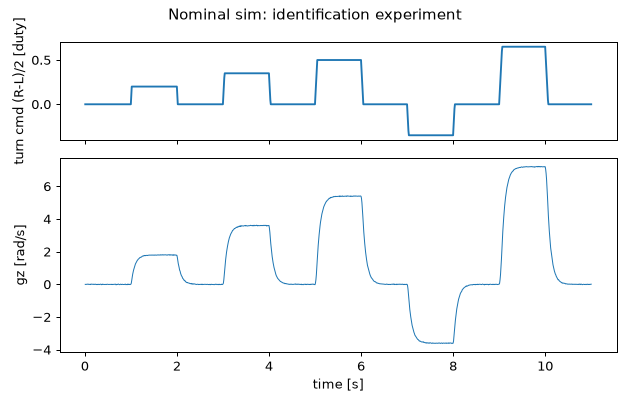
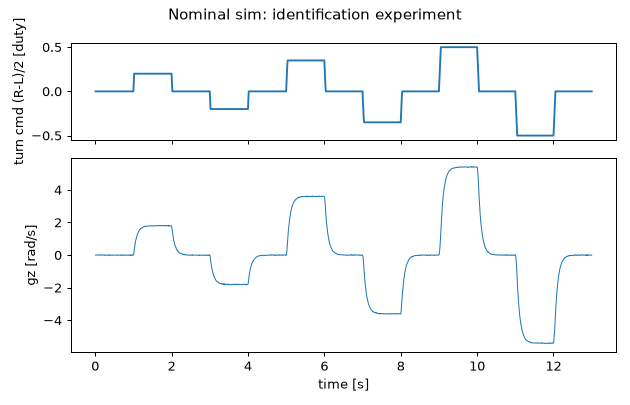
S023: 図を S008 後の main で作り直し（06 は sim-log --plant mujoco の同定の実験）、01・02・04・05・07・08 章に貼った

diff --git a/doc/textbook/fig/README.md b/doc/textbook/fig/README.md
@@ -5,24 +5,24 @@
 
 | 図 | 何が見えるか | 貼る場所の案 |
 | --- | --- | --- |
-| `01-sim-nominal.png` | 公称の sim で同定の実験をしたログ。上が指令の旋回成分、下が gz。指令の段ごとに gz が一次遅れで追う。 | 04 章（sim）の同定の実験の説明 |
-| `02-stand-in-vs-nominal.png` | 代役のログに、公称パラメータのモデルを重ねた図。モデルは代役より大きく速く回り、小さい指令 (0.2) では代役は回らない。 | 01 章（S2R と R2S）か 05 章（Real2Sim）の冒頭。「sim と実機の差」 |
+| `01-sim-nominal.png` | 公称の sim で同定の実験をしたログ。静止 1 s のあと、旋回の指令 ±0.2・±0.35・±0.5 を各 1 s（間に 0 を 1 s）。上が指令の旋回成分、下が gz。指令の段ごとに gz が一次遅れで追う。 | 04 章（sim）の同定の実験の説明 |
+| `02-stand-in-vs-nominal.png` | 代役のログに、公称パラメータのモデルを重ねた図。モデルは代役より大きく速く回り、小さい指令 (0.2) では代役はわずかしか回らない（不感帯）。 | 01 章（S2R と R2S）か 05 章（Real2Sim）の冒頭。「sim と実機の差」 |
 | `03-stand-in-vs-identified.png` | 同じ代役のログに、同定して直したパラメータのモデルを重ねた図。線がほぼ重なる。 | 05 章（Real2Sim）の同定の結果 |
 | `04-step-before-after.png` | 代役での閉ループのステップ応答 (0 → 3 rad/s)。前は公称で決めたゲイン、後は同定したパラメータで決め直したゲイン。前は行き過ぎて目標の少し下に落ち着き、後は目標に揃う。 | 06 章（Sim2Real）か 07 章（1 周）の結果 |
 | `05-still.png` | 代役を 5 s 止めたときの gz と、そのヒストグラム。平均（バイアス）と標準偏差を書き込んである。 | 02 章（IMU）のバイアスと雑音 |
-| `06-mujoco.png` | MuJoCo の車体（`--noise` あり）のステップ応答のログ。 | 08 章（MuJoCo） |
+| `06-mujoco.png` | MuJoCo の車体（IMU に雑音とバイアスあり）で同じ同定の実験をしたログ。公称の sim より大きく回る。 | 08 章（MuJoCo） |
 
 ## 作り直す
 
-sim・同定・制御の中身が変わったら（例: S008 で `id_experiment` と `SafetyGate` が変わった後）、下を実行して PNG をコミットし直す。
+sim・同定・制御の中身が変わったら（S023 で S008 の後の main から作り直した）、下を実行して PNG をコミットし直す。
 `figures()` は公開された関数（`sim_log`・`identify`・`apply`・`tune`・`design`・`run`）を呼ぶだけなので、コードは直さなくてよい。
 
 ```bash
 uv sync --extra viz --extra mujoco
 uv run python -c "from physlearn.plot import figures; figures('doc/textbook/fig')"   # 01〜05
-uv run python -m physlearn.mujoco_plant --out mujoco-step.csv --noise
-uv run python -m physlearn.plot log mujoco-step.csv --out doc/textbook/fig/06-mujoco.png
-rm mujoco-step.csv
+uv run physlearn sim-log mujoco-id.csv --plant mujoco
+uv run python -m physlearn.plot log mujoco-id.csv --out doc/textbook/fig/06-mujoco.png
+rm mujoco-id.csv
 ```
 
 作り直したら、各図を開いて上の「何が見えるか」がまだ正しいか確かめる。

diff --git a/doc/textbook/07-loop.md b/doc/textbook/07-loop.md
@@ -41,6 +41,10 @@ $ uv run physlearn loop-demo
   前（100 %）より低いのは、代役の車体がもともと遅く、ばらつきの幅に対して余裕が小さいからだと考えています（06 章）。
   「sim の上の数字が下がったのに実機では良くなった」のは、sim が実機に近づいて、楽観的でなくなったということです。
 
+![代役での閉ループのステップ応答、前と後](fig/04-step-before-after.png)
+
+上の図は、代役での 0 → 3 rad/s のステップ応答です。前（公称で決めたゲイン）は行き過ぎて目標の少し下に落ち着き、後（同定したパラメータで決め直したゲイン）は目標に揃います。
+
 ### 効いたのはバイアスだけか
 
 S004 の版（代役 K_yaw = 6、d = 0.2、安全ゲート 0.8）では、「前」が外れたのは定常偏差だけで、改善はほぼバイアスを引くようになった分だけでした。

diff --git a/doc/textbook/02-imu.md b/doc/textbook/02-imu.md
@@ -163,6 +163,10 @@ for c in ["ax", "ay", "az", "gx", "gy", "gz"]:
 - 標準偏差が雑音の大きさです。sim の IMU モデル（04 章）に、この値を入れます。
 - 時間を置いて 2 回測り、平均がどれだけ動くかを見ると、ドリフトの目安になります。
 
+![代役を 5 秒止めたときの gz とヒストグラム](fig/05-still.png)
+
+上の図は、実機の代役（sim）を 5 秒止めたときの gz です。0 ではなく 0.08 rad/s のまわりに散らばり、平均がバイアス、ヒストグラムの幅（標準偏差 0.014）が雑音の大きさです。
+
 この例は、実機の代わりに `python -m physlearn.mujoco_plant --out` で作った同じ列の CSV で動くことを確かめました（S010）。sim のログは静止ではなく旋回を含むので、`gz` の平均は 0 になりません。
 
 ## 軸の向きを確かめる

diff --git a/doc/textbook/08-mujoco.md b/doc/textbook/08-mujoco.md
@@ -88,6 +88,10 @@ motor_tau   0.0704
 - デッドバンドは 0 です。モーターのトルクは duty に比例して 0 から出て、MJCF に静止摩擦を入れていないためです。
 - 時定数 0.0704 s は、numpy の一次遅れを当てはめた値です。MuJoCo では車体の慣性とモーターの逆起電力から決まる値で、S007 で 63 % に届く時間を測ったときの 0.07〜0.08 s と合います。
 
+![MuJoCo の車体で同定の実験をしたログ](fig/06-mujoco.png)
+
+上の図は、このログ（`--plant mujoco`、seed 0）の指令と gz です。公称の sim（04 章の図）より大きく回り、段ごとの立ち上がりも速く見えます。
+
 このログを使った「実機の代役」としての 1 周は 07 章にあります。
 
 ## numpy の sim との違いが出そうなところ

diff --git a/doc/textbook/04-sim.md b/doc/textbook/04-sim.md
@@ -96,6 +96,10 @@ true yaw 5.399979876072871 model 5.4
 
 `s.yaw_rate` は sim だけが知っている真値です。実機には無いので、制御器は `Obs` しか見てはいけません。
 
+![公称の sim で同定の実験をしたログ](fig/01-sim-nominal.png)
+
+上の図は、公称の sim に同定の実験（05 章）の指令列を入れたときのログです。上が指令の旋回成分、下が gz で、段ごとに gz が一次遅れで追います。
+
 ## 演習
 
 1. `Params(deadband=0.2)` で u = 0.15 と u = 0.3 を 1 秒ずつ与え、`yaw_rate` がそれぞれいくつになるか式で予想してから確かめる。

diff --git a/doc/textbook/05-real2sim.md b/doc/textbook/05-real2sim.md
@@ -99,6 +99,10 @@ $ cat fixed.json
 }
 ```
 
+![代役のログと同定したモデルの gz の比較](fig/03-stand-in-vs-identified.png)
+
+上の図は、代役のログに、同定して直したパラメータのモデルを重ねたものです。直す前（01 章の図）と違い、2 本の線がほぼ重なります。
+
 （`-0.0` は left = −u に u = 0 を入れた結果で、0 と同じです。）
 
 `--plant mujoco` にすると MuJoCo の車体（08 章）で同じ実験をします。MuJoCo は任意の依存なので `uv sync --extra mujoco` が要ります。
